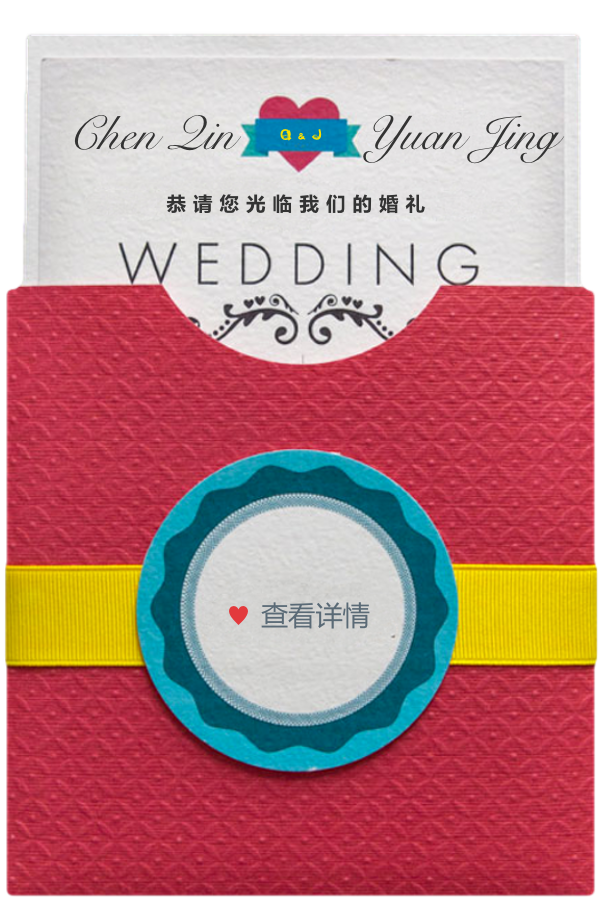
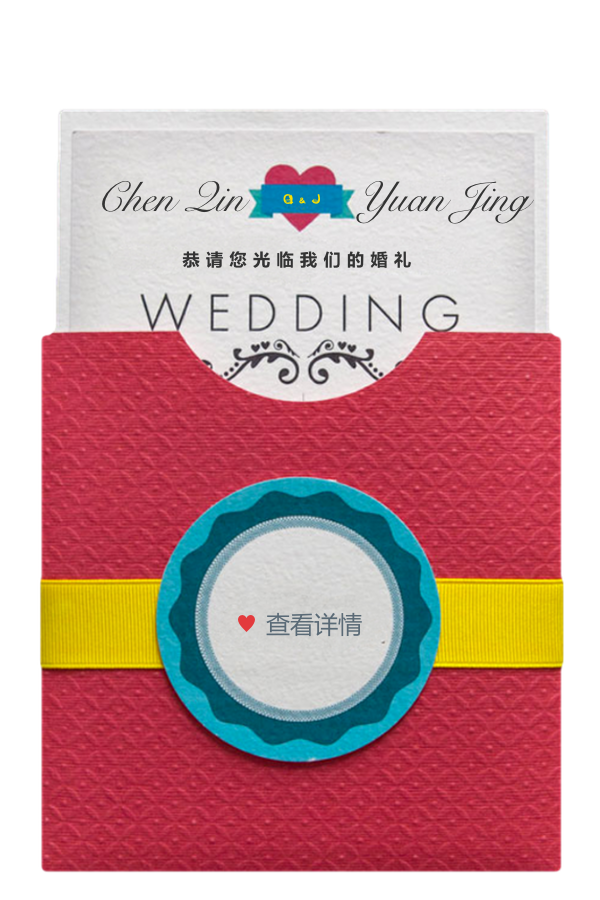
add directory.html

diff --git a/directory.html b/directory.html
@@ -1,0 +1,12 @@
+<html>
+<head>
+    <meta name="viewport" content="width=device-width, initial-scale=1.0, maximum-scale=1.0, user-scalable=no">
+    <link rel="stylesheet" type="text/css" href="styles/main.css">
+</head>
+
+<body>
+<div class="directory">
+    <img src="images/wedding3.png">
+</div>
+</body>
+</html>

diff --git a/styles/main.css b/styles/main.css
@@ -7,3 +7,13 @@
 .main img{
     width: 100%;
 }
+
+.directory {
+    background-color: #FFD2DB;
+    height: 100%;
+    width: 100%;
+}
+
+.directory img{
+    width: 100%;
+}
